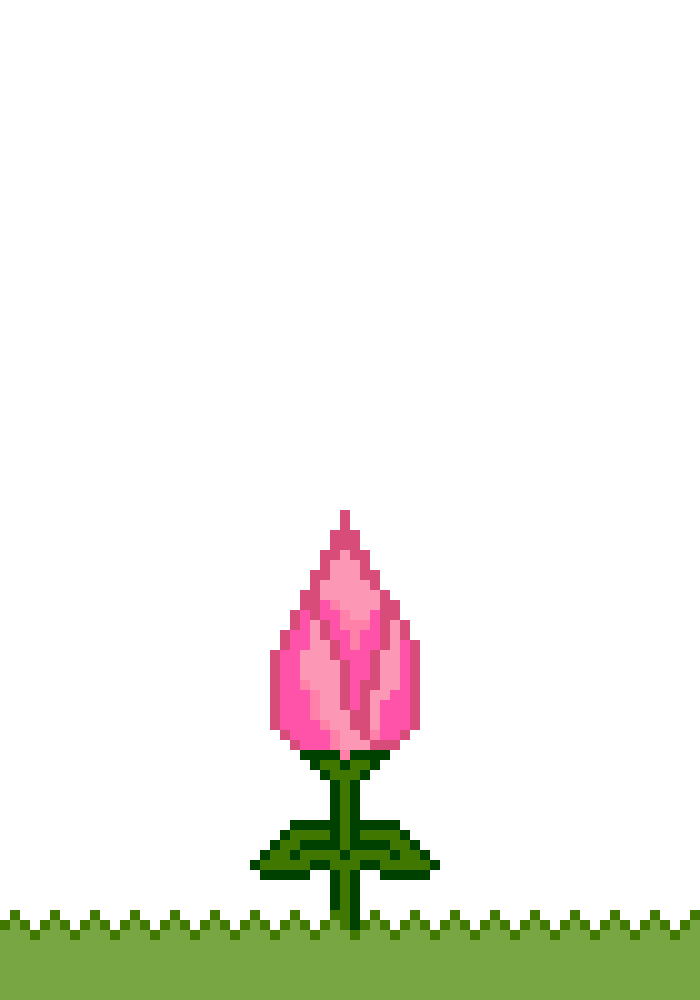
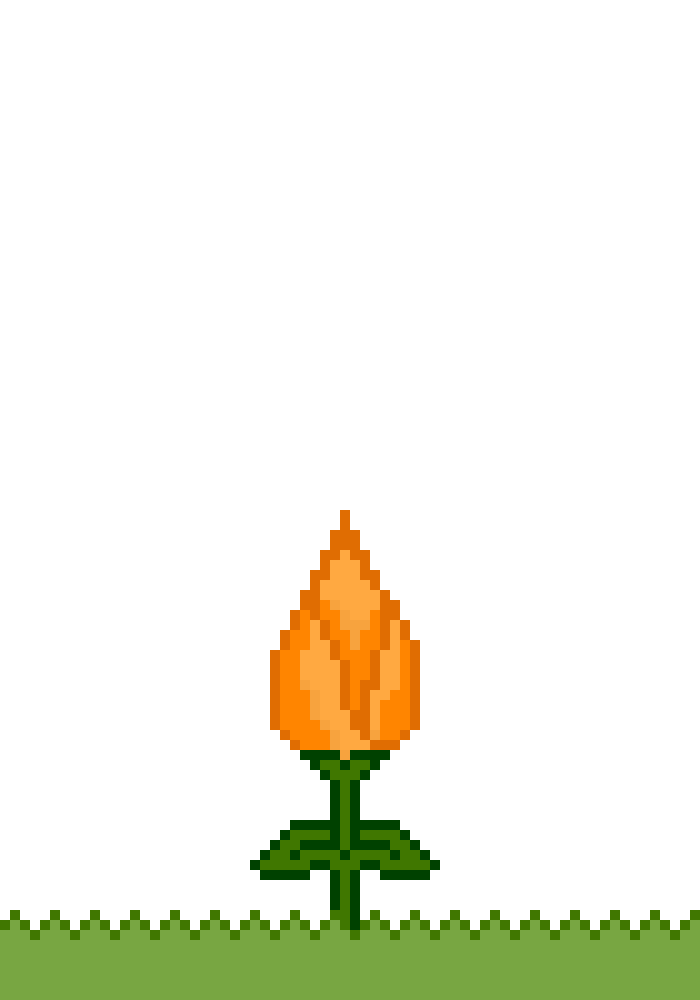
new flower

Changed region(s): [[0.36, 0.496, 0.6, 0.775]]

diff --git a/css/flower_style.css b/css/flower_style.css
@@ -11,18 +11,18 @@
 #pick-color {
 	display: block;
 	position: fixed;
-	width: 600px;
+	width: 650px;
 	left: 50%;
-	margin-left: -300px;
+	margin-left: -325px;
 	top: 100px;
 }
 
 #pick-sky {
 	display: block;
 	position: fixed;
-	width: 600px;
+	width: 650px;
 	left: 50%;
-	margin-left: -300px;
+	margin-left: -325px;
 	top: 100px;
 }
 
@@ -30,23 +30,23 @@
 #color-holder {
 	display: block;
 	position: fixed;
-	width: 600px;
-	height: 600px;
+	width: 650px;
+	height: 650px;
 	top: 50%;
 	left: 50%;
-	margin-top: -300px;
-	margin-left: -300px;
+	margin-top: -325px;
+	margin-left: -325px;
 }
 
 #sky-holder {
 	display: block;
 	position: fixed;
-	width: 600px;
-	height: 600px;
+	width: 650px;
+	height: 650px;
 	top: 50%;
 	left: 50%;
-	margin-top: -300px;
-	margin-left: -300px;
+	margin-top: -325px;
+	margin-left: -325px;
 }
 
 .button {
@@ -55,8 +55,8 @@
 	border-color: black;
 	border-style: solid;
 	margin: 2%;
-	width: 40%;
-	height: 40%;
+	width: 25%;
+	height: 25%;
 }
 
 .button-img {
@@ -65,24 +65,44 @@
 	border-color: black;
 	border-style: solid;
 	margin: 2%;
-	width: 40%;
-	height: 40%;
+	width: 25%;
+	height: 25%;
 }
 
 #color0 {
-	background-color: #FFA941;
+	background-color: #FF5047;
 }
 
 #color1 {
-	background-color: #FF80A9;
+	background-color: #FFA941;
 }
 
 #color2 {
-	background-color: #AB82FF;
+	background-color: #FFFC79;
 }
 
 #color3 {
+	background-color: #FF80A9;
+}
+
+#color4 {
+	background-color: #FFFFFF;
+}
+
+#color5 {
+	background-color: #C0E474;
+}
+
+#color6 {
+	background-color: #AB82FF;
+}
+
+#color7 {
 	background-color: #3DAAD6;
+}
+
+#color8 {
+	background-color: #222222;
 }
 
 #x {
@@ -105,21 +125,13 @@
 
 .background0 {
 	z-index: 50;
-	background: -webkit-linear-gradient(to bottom, #66FFFF 0%,  #FFCC99 100%);
-	background: -o-linear-gradient(to bottom, #66FFFF 0%, #FFCC99 100%);
-	background: -moz-linear-gradient(to bottom, #66FFFF 0%, #FFCC99 100%);
-	background: linear-gradient(to bottom, #66FFFF 0%, #FFCC99 100%);
+	background: -webkit-linear-gradient(to bottom, #5C6F80 0%,  #E3FFFC 100%);
+	background: -o-linear-gradient(to bottom, #5C6F80 0%, #E3FFFC 100%);
+	background: -moz-linear-gradient(to bottom, #5C6F80 0%, #E3FFFC 100%);
+	background: linear-gradient(to bottom, #5C6F80 0%, #E3FFFC 100%);
 }
 
 .background1 {
-	z-index: 50;
-	background: -webkit-linear-gradient(to bottom, #FFCC99 0%, #FFCCFF 100%);
-	background: -o-linear-gradient(to bottom, #FFCC99 0%, #FFCCFF 100%);
-	background: -moz-linear-gradient(to bottom, #FFCC99 0%, #FFCCFF 100%);
-	background: linear-gradient(to bottom, #FFCC99 0%, #FFCCFF 100%);
-}
-
-.background2 {
 	z-index: 50;
 	background: -webkit-linear-gradient(to bottom, #9999FF 0%, #CCFFFF 100%);
 	background: -o-linear-gradient(to bottom, #9999FF 0%, #CCFFFF 100%);
@@ -127,10 +139,58 @@
 	background: linear-gradient(to bottom, #9999FF 0%, #CCFFFF 100%);
 }
 
+.background2 {
+	z-index: 50;
+	background: -webkit-linear-gradient(to bottom, #66FFFF 0%,  #FFCC99 100%);
+	background: -o-linear-gradient(to bottom, #66FFFF 0%, #FFCC99 100%);
+	background: -moz-linear-gradient(to bottom, #66FFFF 0%, #FFCC99 100%);
+	background: linear-gradient(to bottom, #66FFFF 0%, #FFCC99 100%);
+}
+
 .background3 {
+	z-index: 50;
+	background: -webkit-linear-gradient(to bottom, #FFCC99 0%, #FFCCFF 100%);
+	background: -o-linear-gradient(to bottom, #FFCC99 0%, #FFCCFF 100%);
+	background: -moz-linear-gradient(to bottom, #FFCC99 0%, #FFCCFF 100%);
+	background: linear-gradient(to bottom, #FFCC99 0%, #FFCCFF 100%);
+}
+
+.background4 {
+	z-index: 50;
+	background: -webkit-linear-gradient(to bottom, #D16B34 0%,  #FFDE7D 100%);
+	background: -o-linear-gradient(to bottom, #D16B34 0%, #FFDE7D 100%);
+	background: -moz-linear-gradient(to bottom, #D16B34 0%, #FFDE7D 100%);
+	background: linear-gradient(to bottom, #D16B34 0%, #FFDE7D 100%);
+}
+
+.background5 {
+	z-index: 50;
+	background: -webkit-linear-gradient(to bottom, #BE7AD6 0%,  #FF4545 100%);
+	background: -o-linear-gradient(to bottom, #BE7AD6 0%, #FF4545 100%);
+	background: -moz-linear-gradient(to bottom, #BE7AD6 0%, #FF4545 100%);
+	background: linear-gradient(to bottom, #BE7AD6 0%, #FF4545 100%);
+}
+
+.background6 {
+	z-index: 50;
+	background: -webkit-linear-gradient(to bottom, #2D0B80 0%,  #8797FF 100%);
+	background: -o-linear-gradient(to bottom, #2D0B80 0%, #8797FF 100%);
+	background: -moz-linear-gradient(to bottom, #2D0B80 0%, #8797FF 100%);
+	background: linear-gradient(to bottom, #2D0B80 0%, #8797FF 100%);
+}
+
+.background7 {
 	z-index: 50;
 	background: -webkit-linear-gradient(to bottom, #003366 0%, #CC0066 100%);
 	background: -o-linear-gradient(to bottom, #003366 0%, #CC0066 100%);
 	background: -moz-linear-gradient(to bottom, #003366 0%, #CC0066 100%);
 	background: linear-gradient(to bottom, #003366 0%, #CC0066 100%);
+}
+
+.background8 {
+	z-index: 50;
+	background: -webkit-linear-gradient(to bottom, #D1C992 0%,  #111111 100%);
+	background: -o-linear-gradient(to bottom, #D1C992 0%, #111111 100%);
+	background: -moz-linear-gradient(to bottom, #D1C992 0%, #111111 100%);
+	background: linear-gradient(to bottom, #D1C992 0%, #111111 100%);
 }

diff --git a/templates/flower_screen2.html b/templates/flower_screen2.html
@@ -15,9 +15,14 @@
 	<img id="pick-sky" src="../images/flower/sky_title.png">
 	<div id="sky-holder">
 		<img class="button-img" src="../images/flower/sky/sky0.png" id="sky0">
-		<img class="button-img" src="../images/flower/sky/sky1.png" id="sky1"><br>
-		<img class="button-img" src="../images/flower/sky/sky2.png" id="sky2">
+		<img class="button-img" src="../images/flower/sky/sky1.png" id="sky1">
+		<img class="button-img" src="../images/flower/sky/sky2.png" id="sky2"><br>
 		<img class="button-img" src="../images/flower/sky/sky3.png" id="sky3">
+		<img class="button-img" src="../images/flower/sky/sky4.png" id="sky4">
+		<img class="button-img" src="../images/flower/sky/sky5.png" id="sky5"><br>
+		<img class="button-img" src="../images/flower/sky/sky6.png" id="sky6">
+		<img class="button-img" src="../images/flower/sky/sky7.png" id="sky7">
+		<img class="button-img" src="../images/flower/sky/sky8.png" id="sky8">
 	</div>
 </body>
 </html>

diff --git a/js/flower2.js b/js/flower2.js
@@ -1,10 +1,15 @@
 
 
 // color types:
-// 0 - orange
-// 1 - pink
-// 2 - purple
-// 3 - blue
+// 0 - red
+// 1 - orange
+// 2 - yellow
+// 3 - pink
+// 4 - white
+// 5 - green
+// 6 - purple
+// 7 - blue
+// 8 - black
 var color = 0;
 
 
@@ -30,6 +35,26 @@ $("document").ready(function(){
 	$("#sky3").on("click", function(){
 		console.log("click sky 3");
 		enable_screen3(3);
+	});
+	$("#sky4").on("click", function(){
+		console.log("click sky 4");
+		enable_screen3(4);
+	});
+	$("#sky5").on("click", function(){
+		console.log("click sky 5");
+		enable_screen3(5);
+	});
+	$("#sky6").on("click", function(){
+		console.log("click sky 6");
+		enable_screen3(6);
+	});
+	$("#sky7").on("click", function(){
+		console.log("click sky 7");
+		enable_screen3(7);
+	});
+	$("#sky8").on("click", function(){
+		console.log("click sky 8");
+		enable_screen3(8);
 	});
 });
 

diff --git a/js/flower1.js b/js/flower1.js
@@ -12,12 +12,32 @@ $("document").ready(function(){
 		enable_screen2(1);
 	});
 	$("#color2").on("click", function(){
-		console.log("click color 3");
+		console.log("click color 2");
 		enable_screen2(2);
 	});
 	$("#color3").on("click", function(){
 		console.log("click color 3");
 		enable_screen2(3);
+	});
+	$("#color4").on("click", function(){
+		console.log("click color 4");
+		enable_screen2(4);
+	});
+	$("#color5").on("click", function(){
+		console.log("click color 5");
+		enable_screen2(5);
+	});
+	$("#color6").on("click", function(){
+		console.log("click color 6");
+		enable_screen2(6);
+	});
+	$("#color7").on("click", function(){
+		console.log("click color 7");
+		enable_screen2(7);
+	});
+	$("#color8").on("click", function(){
+		console.log("click color 8");
+		enable_screen2(8);
 	});
 });
 

diff --git a/js/flower3.js b/js/flower3.js
@@ -3,10 +3,15 @@
 var current_flower = 0;
 
 // color types:
-// 0 - orange
-// 1 - pink
-// 2 - purple
-// 3 - blue
+// 0 - red
+// 1 - orange
+// 2 - yellow
+// 3 - pink
+// 4 - white
+// 5 - green
+// 6 - purple
+// 7 - blue
+// 8 - black
 var color = 0;
 
 // sky types
@@ -76,6 +81,26 @@ function enable_screen3()
 	else if (sky == 3)
 	{
 		$("body").addClass("background3");
+	}
+	else if (sky == 4)
+	{
+		$("body").addClass("background4");
+	}
+	else if (sky == 5)
+	{
+		$("body").addClass("background5");
+	}
+	else if (sky == 6)
+	{
+		$("body").addClass("background6");
+	}
+	else if (sky == 7)
+	{
+		$("body").addClass("background7");
+	}
+	else if (sky == 8)
+	{
+		$("body").addClass("background8");
 	}
 	else
 	{

diff --git a/templates/flower_screen1.html b/templates/flower_screen1.html
@@ -15,9 +15,14 @@
 	<img id="pick-color" src="../images/flower/color_title.png">
 	<div id="color-holder">
 		<div class="button" id="color0"></div>
-		<div class="button" id="color1"></div><br>
-		<div class="button" id="color2"></div>
+		<div class="button" id="color1"></div>
+		<div class="button" id="color2"></div><br>
 		<div class="button" id="color3"></div>
+		<div class="button" id="color4"></div>
+		<div class="button" id="color5"></div><br>
+		<div class="button" id="color6"></div>
+		<div class="button" id="color7"></div>
+		<div class="button" id="color8"></div>
 	</div>
 </body>
 </html>
